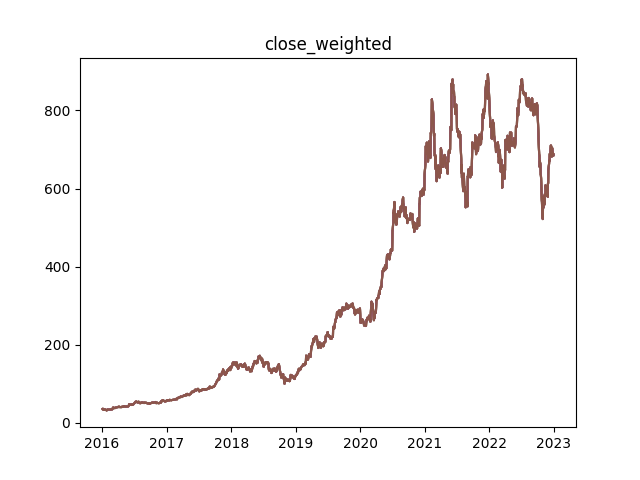
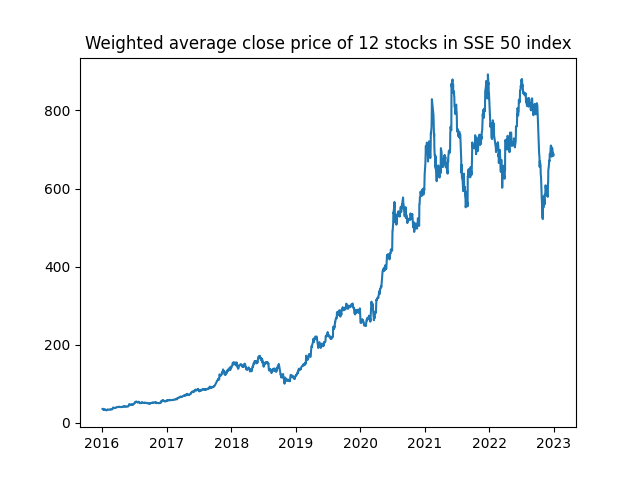
Update outputs

diff --git a/README.md b/README.md
@@ -40,12 +40,46 @@ Moving Average Convergence / Divergence
     - Choose states 3, 5 as **SELL** signals
 - Model measurement (using SSE data ranging from **2021 to 2023**)
   - The latest (updated to 2023-03-03) annualized [risk-free rate of return](https://data.eastmoney.com/cjsj/zmgzsyl.html) for the **two-year and five-year** periods in China is **2.46% and 2.74%**, respectively
-  - The model outperfroms risk-free return by 70%
+  - The model has an annual return rate **4.86%**, outperfroming risk-free return by 70%
   - ![](result/SEE_RL_HMM_Result.png)
 
 ### Deep Reinforcement Learning (DRL)
 
+#### Problem definition
+
+This problem is to design an automated trading solution for single stock trading. We model the stock trading process as a Markov Decision Process (MDP). We then formulate our trading goal as a maximization problem.
+
+The algorithm is trained using Deep Reinforcement Learning (DRL) algorithms and the components of the reinforcement learning environment are:
+
+* Action: The action space describes the allowed actions that the agent interacts with the
+  environment. Normally, a ∈ A includes three actions: a ∈ {−1, 0, 1}, where −1, 0, 1 represent
+  selling, holding, and buying one stock. Also, an action can be carried upon multiple shares. We use
+  an action space {−k, ..., −1, 0, 1, ..., k}, where k denotes the number of shares. For example, "Buy
+  10 shares of 600519.SH (贵州茅台)" or "Sell 10 shares of 600519.SH" are 10 or −10, respectively
+* Reward function: r(s, a, s′) is the incentive mechanism for an agent to learn a better action. The change of the portfolio value when action a is taken at state s and arriving at new state s',  i.e., r(s, a, s′) = v′ − v, where v′ and v represent the portfolio values at state s′ and s, respectively
+* State: The state space describes the observations that the agent receives from the environment. Just as a human trader needs to analyze various information before executing a trade, so
+  our trading agent observes many different features to better learn in an interactive environment.
+* Environment: SSE 50 Index
+
+The data of the single stock that we will be using for this case study is obtained from Yahoo Finance API. The data contains Open-High-Low-Close price and volume.
+
 #### A2C, PPO, DDPG models
+
+- Backtest
+  - Base rate chosen is **SSE 50 index price**, because all 12 tickets are selceted from constituent stocks of SSE 50 Index
+  - The DRL model has an annual return rate **13.74%** on 12 stocks
+  - The cumulative returns of the DRL algorithm trades in the backtest compared to the daily returns of the SSE 50 Index, which is the benchmark interest rate, have roughly similar trends, but the DRL model is able to mitigate the decline in returns well, demonstrating the ability to identify downside risk in the stock market. (DRL算法交易在回测中的累计收益率和作为基准利率的上证50指数的每日收益率相比，大致存在相似的变化趋势，但是DRL模型能够很好缓解收益的下降，展现出了能够识别股市下跌风险的能力。)
+
+![](DRL_FinRL_model/outputs/SSE50IndexStock0308/backtest_plot.png)
+
+- Data analysis
+    - Similar trends can be observed in datasets and the benmark (SSE 50 index),   
+        - indicaties that the 12 stocks selected are **representative**
+        - also illustrates the overall trend of **convergence changes** in the stock market
+        
+![](DRL_FinRL_model/outputs/SSE50IndexStock0308/SSE50Index.png)
+![](DRL_FinRL_model/outputs/SSE50IndexStock0308/WtdAvgPri_12.png)
+
 
 #### Technical indicators
 
@@ -60,36 +94,35 @@ Moving Average Convergence / Divergence
   - They consist of three lines: a simple moving average (usually of 20 periods), an upper band (usually two standard deviations above the moving average), and a lower band (usually two standard deviations below the moving average).
   - When the price of the security moves close to the upper or lower bands, it is considered to be relatively high or low in price, respectively.
   - Bollinger Bands can be used to identify potential buy or sell signals when the price breaks through the upper or lower bands.
-  
   - The width of the Bollinger Bands can also be used to measure the volatility of the security, with wider bands indicating higher volatility and narrower bands indicating lower volatility.
 - RSI: Relative Strength Index
-    - RSI is a momentum oscillator that measures the magnitude of recent price changes to evaluate overbought or oversold conditions in an asset.
-    - The RSI ranges from 0 to 100, with readings above 70 indicating overbought conditions and readings below 30 indicating oversold conditions.
-    - RSI is calculated by comparing the average gain and average loss of an asset over a specified time period, typically 14 days.
-    - RSI can also be used to identify bullish or bearish divergences between the RSI indicator and the price of an asset, which can signal potential trend reversals.
-    - RSI is a popular technical indicator used by traders and analysts in various markets, including stocks, forex, and cryptocurrencies.
+  - RSI is a momentum oscillator that measures the magnitude of recent price changes to evaluate overbought or oversold conditions in an asset.
+  - The RSI ranges from 0 to 100, with readings above 70 indicating overbought conditions and readings below 30 indicating oversold conditions.
+  - RSI is calculated by comparing the average gain and average loss of an asset over a specified time period, typically 14 days.
+  - RSI can also be used to identify bullish or bearish divergences between the RSI indicator and the price of an asset, which can signal potential trend reversals.
+  - RSI is a popular technical indicator used by traders and analysts in various markets, including stocks, forex, and cryptocurrencies.
 - CCI: Commodity Channel Index
-    - CCI is a momentum oscillator that measures the current price level relative to an average price level over a given period of time.
-    - CCI is typically used to identify overbought or oversold conditions in the market.
-    - CCI generates buy and sell signals based on divergence between the indicator and the price action.
-    - CCI is particularly useful in detecting price reversals and trend changes in volatile markets.
-    - CCI can be applied to any financial instrument, including stocks, futures, and forex.
-- DX: Directional Movement Index 
-    - Measures trend strength: DX is used to measure the strength of a trend in a market, indicating whether the trend is gaining or losing momentum.
-    - Derived from the ADX: The DX is derived from the Average Directional Index (ADX), which is used to identify the strength of a trend.
-    - Ranges from 0 to 100: DX ranges from 0 to 100, with readings above 25 indicating that a trend is strengthening and readings below 25 indicating that a trend is weakening.
-    - Incorporates both positive and negative directional movement: The DX incorporates both positive and negative directional movement indicators (DMI), allowing it to capture both uptrends and downtrends.
-    - Can be used to identify potential trading opportunities: DX is often used by traders to identify potential trading opportunities, such as entering or exiting a position when a trend is beginning to strengthen or weaken.
+  - CCI is a momentum oscillator that measures the current price level relative to an average price level over a given period of time.
+  - CCI is typically used to identify overbought or oversold conditions in the market.
+  - CCI generates buy and sell signals based on divergence between the indicator and the price action.
+  - CCI is particularly useful in detecting price reversals and trend changes in volatile markets.
+  - CCI can be applied to any financial instrument, including stocks, futures, and forex.
+- DX: Directional Movement Index
+  - Measures trend strength: DX is used to measure the strength of a trend in a market, indicating whether the trend is gaining or losing momentum.
+  - Derived from the ADX: The DX is derived from the Average Directional Index (ADX), which is used to identify the strength of a trend.
+  - Ranges from 0 to 100: DX ranges from 0 to 100, with readings above 25 indicating that a trend is strengthening and readings below 25 indicating that a trend is weakening.
+  - Incorporates both positive and negative directional movement: The DX incorporates both positive and negative directional movement indicators (DMI), allowing it to capture both uptrends and downtrends.
+  - Can be used to identify potential trading opportunities: DX is often used by traders to identify potential trading opportunities, such as entering or exiting a position when a trend is beginning to strengthen or weaken.
 - SMA: Simple Moving Average
-    - Simple Moving Average (SMA) is a commonly used technical analysis tool in finance.
-    - SMA calculates the average price of an asset over a specified time period.
-    - SMA is a lagging indicator, which means it is based on past price data and may not accurately predict     - SMA is widely used as a trend indicator to determine whether an asset is in an uptrend or downtrend.
-    - MA can be used to identify potential buy or sell signals when the price of an asset crosses above or below its SMA.
+  - Simple Moving Average (SMA) is a commonly used technical analysis tool in finance.
+  - SMA calculates the average price of an asset over a specified time period.
+  - SMA is a lagging indicator, which means it is based on past price data and may not accurately predict     - SMA is widely used as a trend indicator to determine whether an asset is in an uptrend or downtrend.
+  - MA can be used to identify potential buy or sell signals when the price of an asset crosses above or below its SMA.
 - Turbulence
-    - Increased price volatility: During turbulent periods, asset prices can fluctuate rapidly and unpredictably. This can make it more difficult for traders to execute trades at desired prices and can increase the risk of losses.
-    - Breakdown of traditional market correlations: Turbulent periods can lead to a breakdown of traditional market correlations, where assets that were previously thought to be uncorrelated can suddenly become highly correlated. This can make it more difficult to diversify a portfolio and can increase the risk of losses.
-    - Changes in market regimes: Turbulence can also signal a change in market regimes, where the dynamics that previously drove market movements are no longer effective. This can make it more difficult for traders to predict future market movements and can increase the risk of losses.
+  - Increased price volatility: During turbulent periods, asset prices can fluctuate rapidly and unpredictably. This can make it more difficult for traders to execute trades at desired prices and can increase the risk of losses.
+  - Breakdown of traditional market correlations: Turbulent periods can lead to a breakdown of traditional market correlations, where assets that were previously thought to be uncorrelated can suddenly become highly correlated. This can make it more difficult to diversify a portfolio and can increase the risk of losses.
+  - Changes in market regimes: Turbulence can also signal a change in market regimes, where the dynamics that previously drove market movements are no longer effective. This can make it more difficult for traders to predict future market movements and can increase the risk of losses.
 - P/B: price-to-book ratio
-    - It measures the market value of a company relative to its book value, providing insight into the company's valuation.
-    - A P/B ratio below 1 suggests that the company may be undervalued, while a ratio above 1 suggests that the company may be overvalued.
-    - The P/B ratio is particularly useful in evaluating the value of asset-heavy companies, such as those in the financial and industrial sectors, as it takes into account the company's assets and liabilities.
+  - It measures the market value of a company relative to its book value, providing insight into the company's valuation.
+  - A P/B ratio below 1 suggests that the company may be undervalued, while a ratio above 1 suggests that the company may be overvalued.
+  - The P/B ratio is particularly useful in evaluating the value of asset-heavy companies, such as those in the financial and industrial sectors, as it takes into account the company's assets and liabilities.
